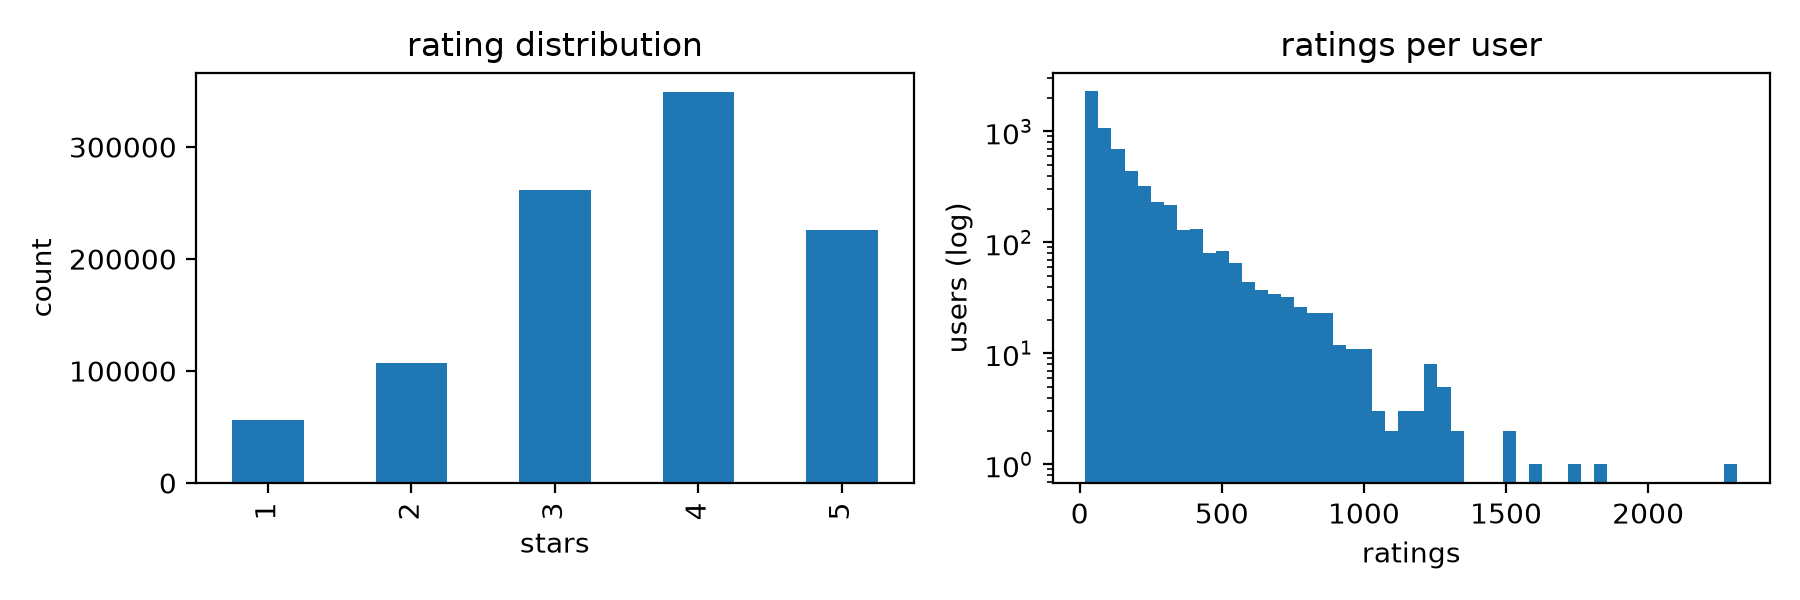
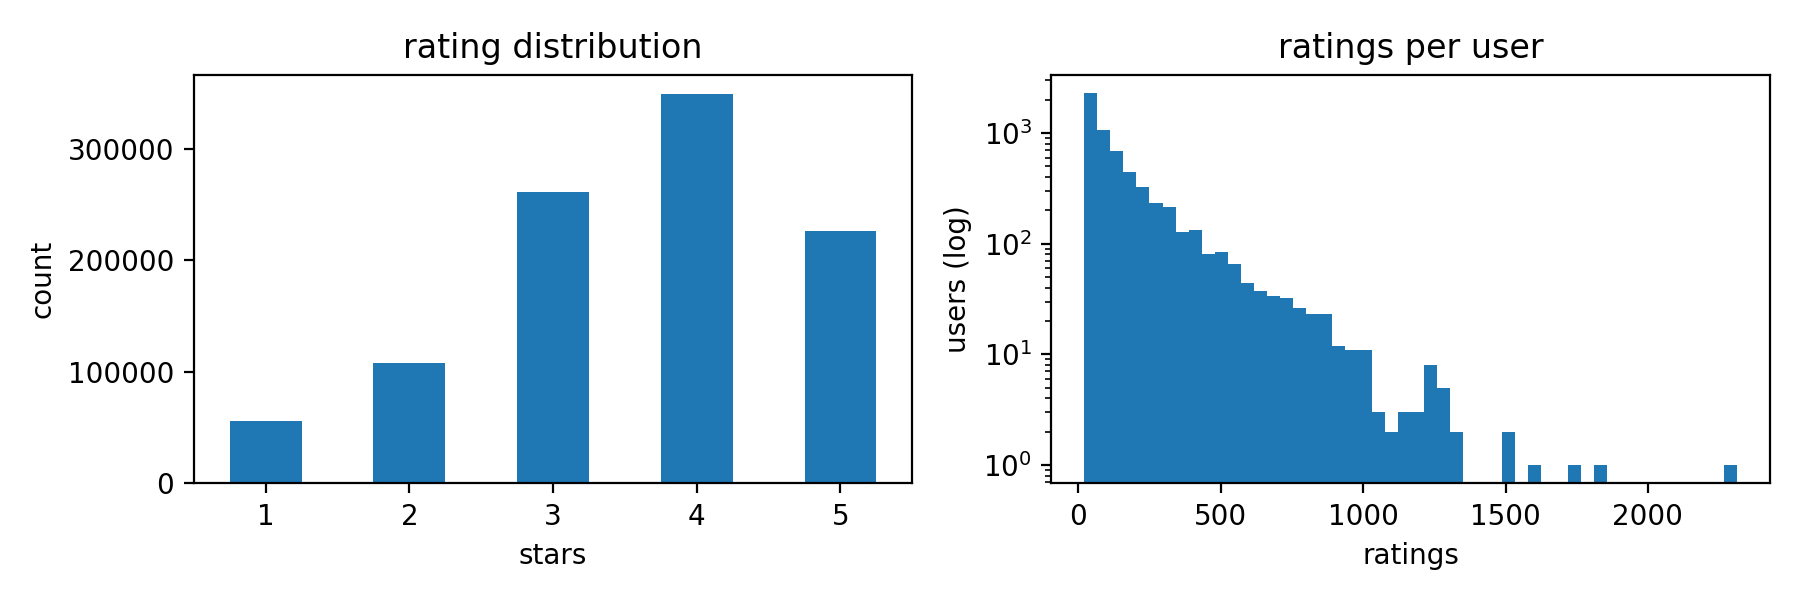
I fixed the labels in the png

diff --git a/Phase2Project.py b/Phase2Project.py
@@ -55,7 +55,7 @@ def describe_data(ratings: pd.DataFrame) -> None:
 
     RESULTS_DIR.mkdir(exist_ok=True)
     fig, axes = plt.subplots(1, 2, figsize=(9, 3))
-    ratings["rating"].value_counts().sort_index().plot.bar(ax=axes[0])
+    ratings["rating"].value_counts().sort_index().plot.bar(ax=axes[0], rot=0)
     axes[0].set(title="rating distribution", xlabel="stars", ylabel="count")
     axes[1].hist(per_user, bins=50, log=True)
     axes[1].set(title="ratings per user", xlabel="ratings", ylabel="users (log)")
